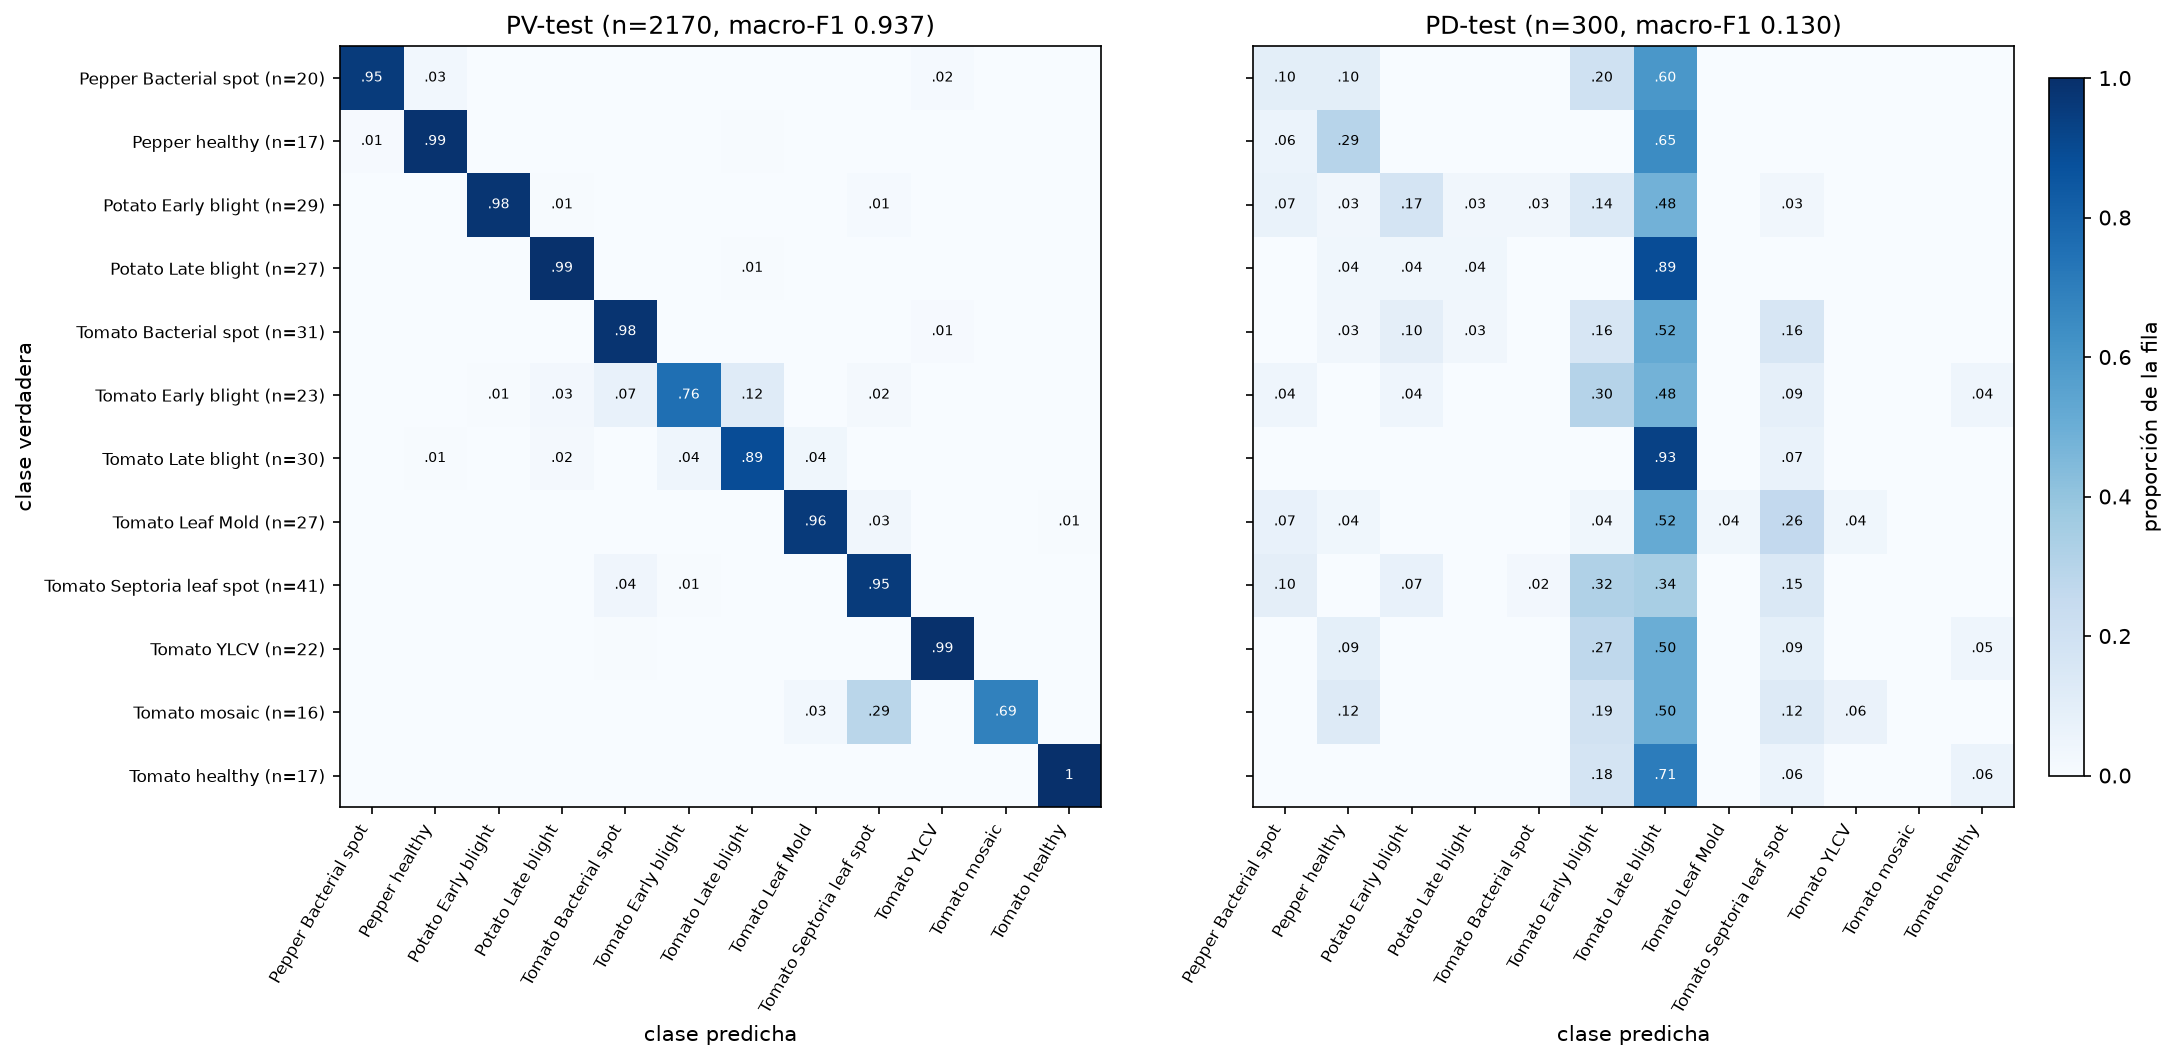
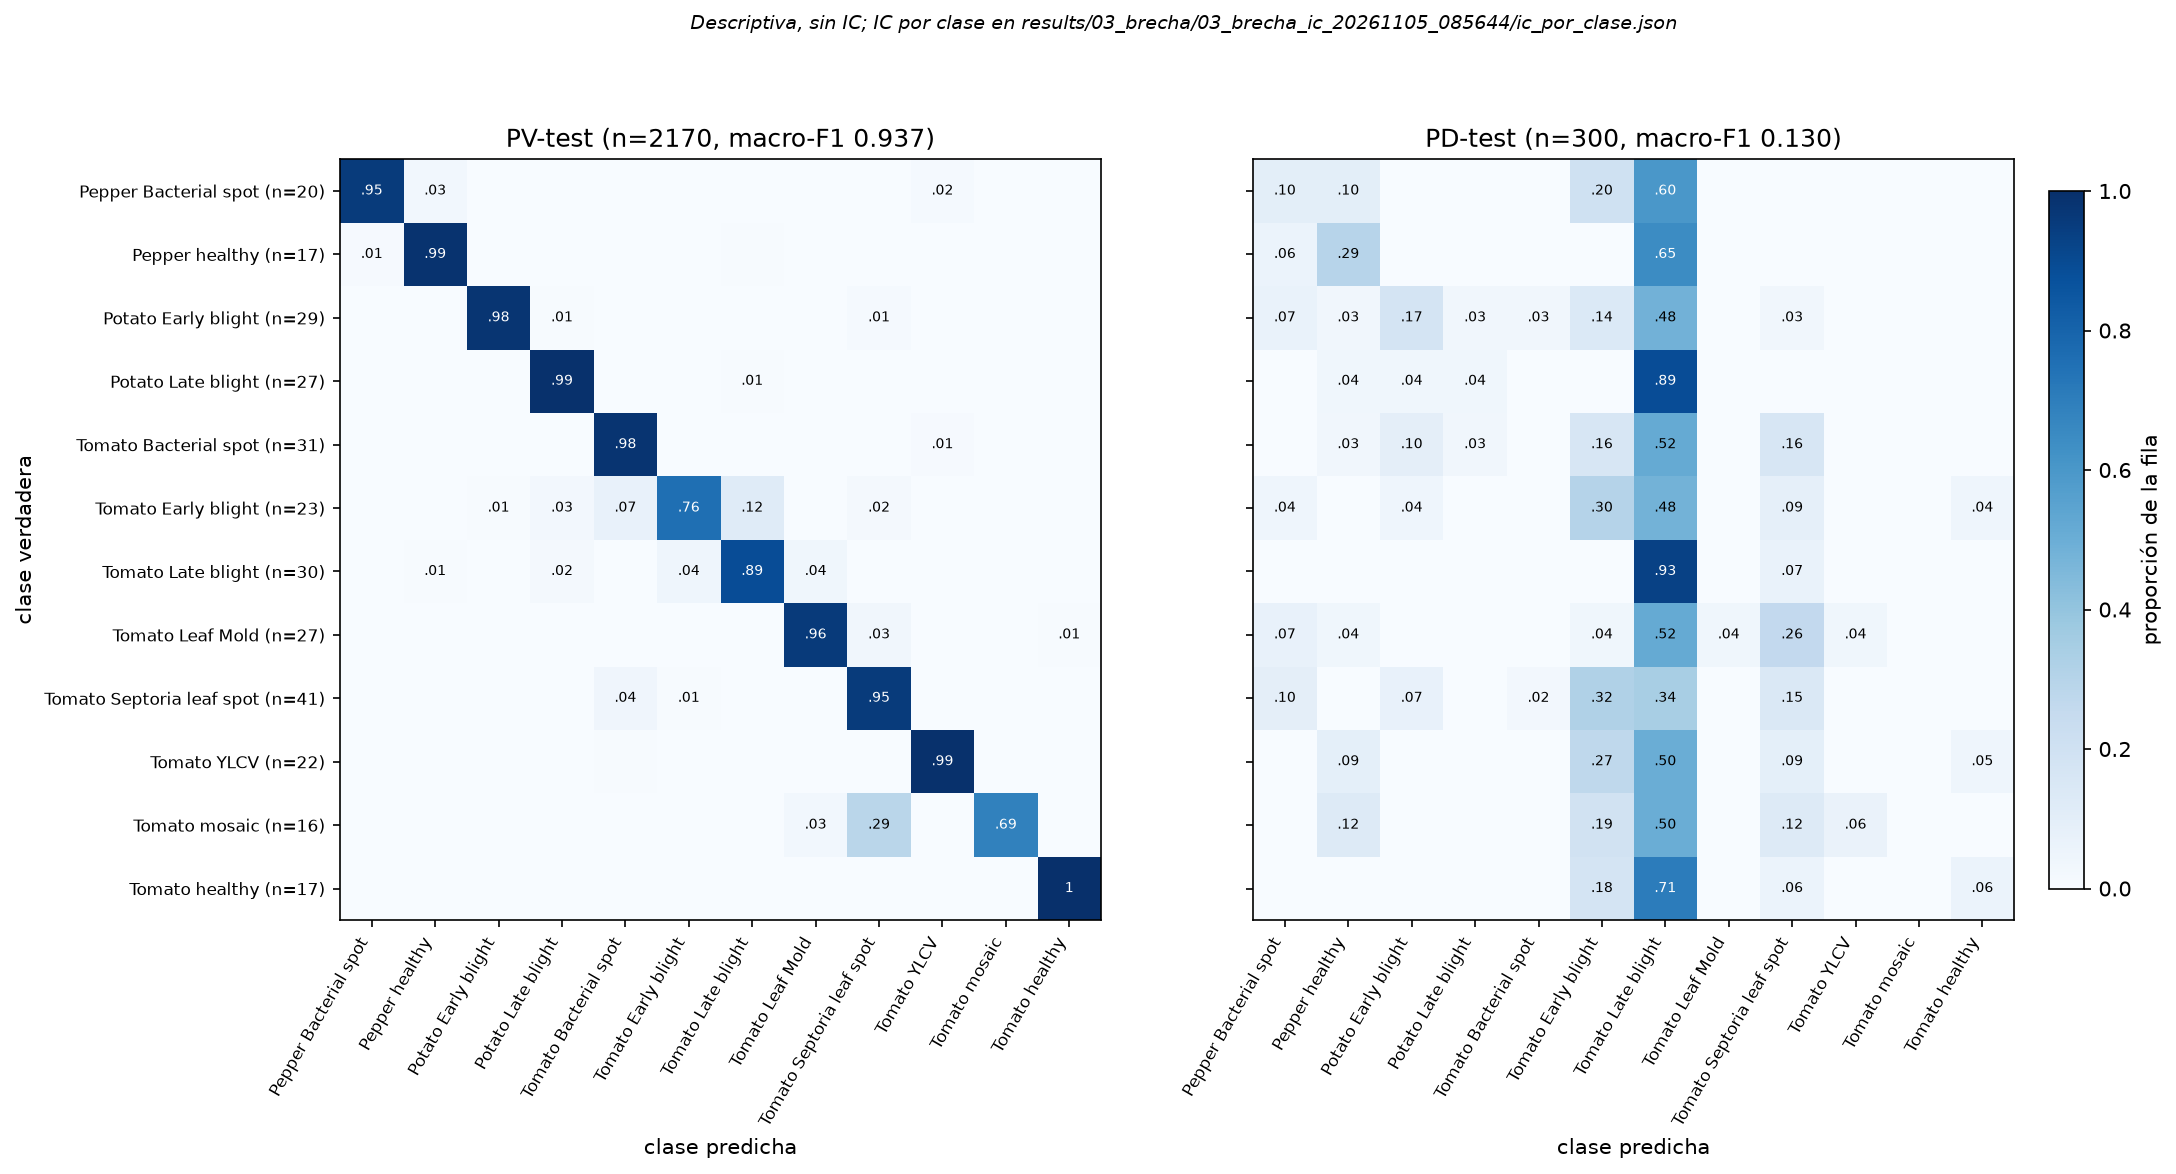
fix(figuras): leyenda de las matrices como título superior
La leyenda quedaba encimada sobre las etiquetas del eje x; pasa a ser el título superior. Test de su posición y de que cite el JSON de los IC. Figura de matrices regenerada.

diff --git a/tests/test_cam.py b/tests/test_cam.py
@@ -130,6 +130,15 @@ def test_las_figuras_de_numeros_se_generan(tmp_path):
         assert f.is_file() and f.stat().st_size > 5000
 
 
+def test_la_leyenda_de_las_matrices_va_arriba_y_con_la_ruta_del_json(tmp_path, monkeypatch):
+    capturadas = []
+    cerrar = FIG.plt.close
+    monkeypatch.setattr(FIG.plt, "close", lambda f=None: (capturadas.append(f), cerrar(f))[1])
+    FIG.figura_matrices(_tests_json(), tmp_path / "m.png", ic_json="results/x/ic_por_clase.json")
+    assert capturadas[0]._suptitle.get_text() == "Descriptiva, sin IC; IC por clase en results/x/ic_por_clase.json"
+    assert capturadas[0]._suptitle.get_position()[1] > 0.9                              # arriba, no pegada a las etiquetas del eje x
+
+
 def test_la_figura_de_matrices_exige_citar_el_json_de_los_ic():
     assert FIG.leyenda_matrices("results/03_brecha/r/ic_por_clase.json") ==         "Descriptiva, sin IC; IC por clase en results/03_brecha/r/ic_por_clase.json"
     with pytest.raises(TypeError):

diff --git a/src/foliares/eval/figuras.py b/src/foliares/eval/figuras.py
@@ -85,7 +85,7 @@ def figura_matrices(tests: dict, ruta: str | Path, *, ic_json: str) -> Path:
         ax.set_title(f"{test} (n={tests['resultados'][test]['n']}, macro-F1 {tests['resultados'][test]['base_macro_f1_ic']['estimacion']:.3f})")
     ejes[0].set_ylabel("clase verdadera")
     fig.colorbar(im, ax=ejes, fraction=0.02, pad=0.02, label="proporción de la fila")
-    fig.text(0.5, 0.005, leyenda_matrices(ic_json), ha="center", fontsize=9, style="italic")
+    fig.suptitle(leyenda_matrices(ic_json), fontsize=9, style="italic", y=0.995)         # arriba: no choca con las etiquetas del eje x
     fig.savefig(ruta, dpi=150, bbox_inches="tight")
     plt.close(fig)
     return Path(ruta)
